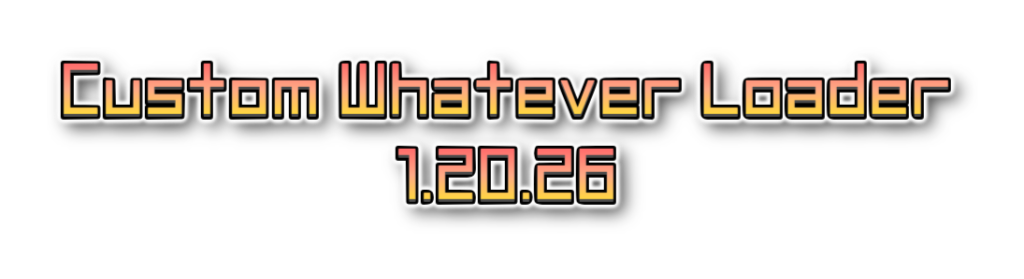
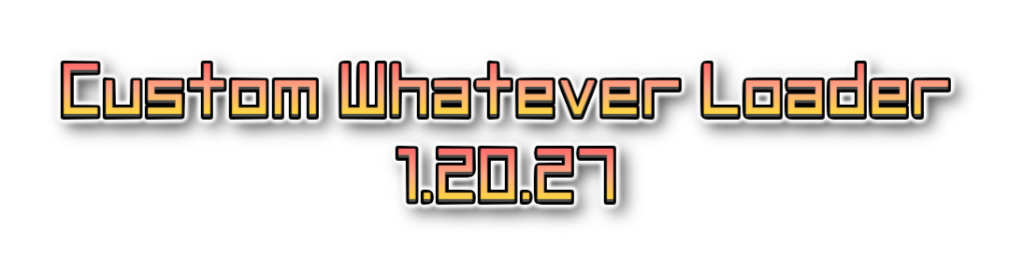
feat(CWL): restore chara data

Changed region(s): [[0.5625, 0.5448, 0.625, 0.8029]]

diff --git a/CustomWhateverLoader/Patches/Charas/RestoreCharaData.cs b/CustomWhateverLoader/Patches/Charas/RestoreCharaData.cs
@@ -1,0 +1,90 @@
+using System.Collections.Generic;
+using System.Linq;
+using System.Runtime.Serialization;
+using System.Text;
+using Cwl.API.Attributes;
+using Cwl.Helper.Extensions;
+using Cwl.Helper.Runtime;
+using Cwl.Helper.Unity;
+using Cwl.LangMod;
+
+namespace Cwl.Patches.Charas;
+
+internal class RestoreCharaData
+{
+    private const string SourceIdEntry = "cwl_source_chara_id";
+    private static List<(Chara, SourceChara.Row)>? _restore = null;
+
+    [CwlCharaOnCreateEvent]
+    internal static void SetOrRestoreCharaData(Chara chara)
+    {
+        if (!chara.mapStr.TryGetValue(SourceIdEntry, out var sourceId)) {
+            chara.mapStr.Set(SourceIdEntry, chara.id);
+            CwlMod.Debug<RestoreCharaData>($"setting source data {sourceId}");
+            return;
+        }
+
+        if (chara.id == sourceId) {
+            return;
+        }
+
+        if (!EMono.sources.charas.map.TryGetValue(sourceId, out var source)) {
+            return;
+        }
+
+        if (_restore is null) {
+            _restore = [];
+
+            CoroutineHelper.Deferred(
+                DeferredRestore,
+                () => EClass.core.IsGameStarted);
+        }
+
+        _restore.Add((chara, source));
+    }
+
+    [SwallowExceptions]
+    private static void DeferredRestore()
+    {
+        if (_restore is null) {
+            return;
+        }
+
+        Dialog.YesNo(
+            "cwl_ui_chara_restore".Loc(BuildCharaList(_restore)),
+            () => {
+                foreach (var (chara, source) in _restore) {
+                    chara.id = source.id;
+                    chara.source = source;
+                    chara.mapStr.Set(SourceIdEntry, source.id);
+
+                    CachedMethods.GetCachedMethod(nameof(Card), "_OnDeserialized", [typeof(StreamingContext)])?
+                        .FastInvoke(chara, new StreamingContext());
+
+                    chara.ChangeRace(source.race);
+
+                    CwlMod.Log<RestoreCharaData>("cwl_log_chara_restore".Loc(chara.id, chara.Name));
+                }
+
+                _restore = null;
+            },
+            () => _restore = null,
+            "cwl_ui_chara_restore_yes",
+            "cwl_ui_chara_restore_no");
+    }
+
+    private static string BuildCharaList(List<(Chara, SourceChara.Row)> list)
+    {
+        var sb = new StringBuilder();
+
+        foreach (var (chara, source) in list.Take(15)) {
+            sb.AppendLine($"{chara.NameSimple},{chara.currentZone.Name},lv {chara.LV} => {source.GetText()}");
+        }
+
+        if (list.Count > 15) {
+            sb.AppendLine($"+ {list.Count - 15}...");
+        }
+
+        return sb.ToString().TrimEnd();
+    }
+}

diff --git a/CustomWhateverLoader/Loader/CustomWhateverLoader.cs b/CustomWhateverLoader/Loader/CustomWhateverLoader.cs
@@ -9,7 +9,7 @@ public static class ModInfo
     // for legacy reason
     public const string Guid = "dk.elinplugins.customdialogloader";
     public const string Name = "Custom Whatever Loader";
-    public const string Version = "1.20.26";
+    public const string Version = "1.20.27";
 }
 
 [BepInPlugin(ModInfo.Guid, ModInfo.Name, ModInfo.Version)]
